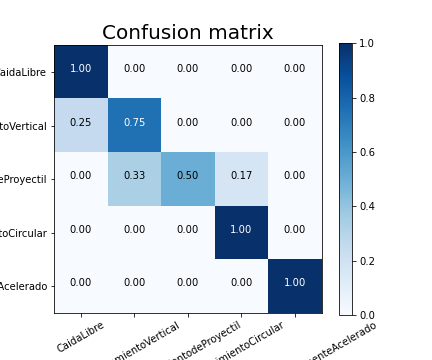
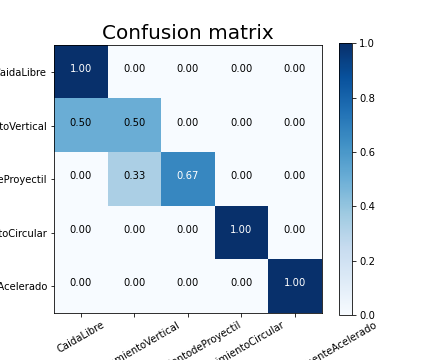
15-04-2023

Changed region(s): [[0.1204, 0.275, 0.6319, 0.5806]]

diff --git a/emv/librerias/lib_IdVar.py b/emv/librerias/lib_IdVar.py
@@ -36,15 +36,19 @@ def analizar_oracion(oracion, unidades_trab, descripción, unidades_si, variable
     print(f'oracion = {oracion}')
     # input('analizar_oracion')
     while (contpalabra <= len(oracion)-1): # Recorre todas las parabras de las lista de palabras de la oración
-        print(oracion[contpalabra])
+        print(oracion[contpalabra], end=': ')
         # input()
-        
         '''
-        print(get_indice_simbolo_trab(oracion[contpalabra].replace('.',''), descripción) != -1)
-        print(contpalabra < len(oracion)-1 and get_indice_simbolo_trab(f"{oracion[contpalabra]} {oracion[contpalabra+1].replace('.', '')}", descripción) != -1)
+        La palabra es una variable
+        La palabra actual y la siguiente es una variable
+        Es un número y le sigue una unidad, excepto si le precede las palabras tabla o figura
+        '''
+        
+        print(get_indice_simbolo_trab(oracion[contpalabra].replace('.',''), descripción) != -1, end=' ')
+        print(contpalabra < len(oracion)-1 and get_indice_simbolo_trab(f"{oracion[contpalabra]} {oracion[contpalabra+1].replace('.', '')}", descripción) != -1, end=' ')
         print(es_numero(oracion[contpalabra]) and oracion[contpalabra-1] not in ['figura', 'tabla'] and 
         contpalabra < len(oracion)-1 and get_indice_unidad_trab(oracion[contpalabra+1].replace('.', ''), unidades_trab) != -1)
-        '''
+        
         
         if (get_indice_simbolo_trab(oracion[contpalabra].replace('.',''), descripción) != -1 or 
             (contpalabra < len(oracion)-1 and get_indice_simbolo_trab(f"{oracion[contpalabra]} {oracion[contpalabra+1].replace('.', '')}", descripción) != -1) or
@@ -57,6 +61,13 @@ def analizar_oracion(oracion, unidades_trab, descripción, unidades_si, variable
             # print(contpalabra,len(oracion),oracion)
             print('lstDatos->', lstDatos)
             # input()
+            
+            # se válida si la unidad corresponde con la descripción
+            if lstDatos[0] != '' and lstDatos[2] != '' and es_numero(lstDatos[2]):
+                if lstDatos[3] not in unidades_trab[get_indice_simbolo_trab(f"{oracion[contpalabra]} {oracion[contpalabra+1].replace('.', '')}",descripción)].split(',') and es_numero(lstDatos[2]):
+                    lstDatos[3]=''
+                    lstDatos[2]=''
+            
             caso = es_var_independiente(lstDatos, unidades_trab, descripción)
             print(f'caso = {caso}')
 
@@ -94,23 +105,23 @@ def conteo(lst1, lst2):
     i = 0
     # nl1=len(lst1)
     while i < len(lst1): # Referencia
-
         j = 0
-
         while j < len(lst2):  # Recorre toda lst2
             lst2[j][2] = lst2[j][2].strip()
             if lst1[i] == lst2[j]:
-
                 lst1.pop(i)
                 lst2.pop(j)
                 c += 1
                 i -= 1
                 break
-
             j += 1
-
         i += 1
 
+    if not lst1:
+        print(f'*** Encontró todas las variables *quedó* {lst1} *agregó* {lst2}')
+    else:
+        print(f'*** NO ENCONTRÓ *quedó* {lst1} *agregó* {lst2}')
+    
     # if c==len(lst1):
         # print('Todos acertados')
     # else:
@@ -138,13 +149,10 @@ def convertir_str_list(cad, n):
     j = 0
     # print(lst)
     for i in range(len(lst) // n):
-
         lst2 = []
-
         while j < (i + 1) * n:
             lst2.append(lst[j])
             j += 1
-
         lst3.append(lst2)
 
     # print(l3)
@@ -209,7 +217,6 @@ def es_var_independiente(lista_datos,unidades_trab,descripción):
     return caso
 
 
-
 def file_to_dict(file_name):
     result_dict = {}
     with open(file_name) as f:
@@ -231,8 +238,8 @@ def filtros2(e, dict):  # sourcery skip: avoid-builtin-shadow
         for key, val in dict.items():  # Recorre el diccionario de variables
             e['enunciados'][i] = e['enunciados'][i].replace(key, val)
 
-        print ('Simplificación ortografica %s \n',i,') ', e['enunciados'][i])
-        print("\n")
+        #print ('Simplificación ortografica %s \n',i,') ', e['enunciados'][i])
+        #print("\n")
 
 
 def get_indice_simbolo_trab(cad_descripcionvartrab, descripción):
@@ -271,7 +278,7 @@ def get_indice_unidad_trab(unid, unidades_trab):
     '''
     for i in range(len(unidades_trab)):
         for u in unidades_trab[i].split(','):
-            if unid == u.lower():
+            if unid.lower() == u.lower():
                 return i
     return -1
 
@@ -324,8 +331,8 @@ def print_resultados_enunciados(contninguno, conttotal, contindep, contdep,
     print('\nAnálisis de enunciados:')
     print(f'Total de enunciados analizados=\t {conttotal}')
     print('Desacierto en ambos y porcentaje=\t %d \t %.2f ' % (contninguno, (contninguno / conttotal * 100)),'%')
-    print('Porcentaje Aciertos Var Indep =\t %d \t %.2f ' % (contindep, (contindep / conttotal * 100)),'%')
-    print('Porcentaje Aciertos Var Dep =\t %d \t %.2f ' % (contdep, (contdep / conttotal * 100)),'%')
+    print('Porcentaje Aciertos de todas las Var Indep por enunciado =\t %d \t %.2f ' % (contindep, (contindep / conttotal * 100)),'%')
+    print('Porcentaje Aciertos de todas las Var Dep por enunciado =\t %d \t %.2f ' % (contdep, (contdep / conttotal * 100)),'%')
     print('Total de aciertos en ambos y porcentaje=\t %d \t %.2f' % (contambos, (contambos / conttotal * 100)),'%')
 
     print(f'Enunciados con Falla en ambos=\t {lstNinguno}')
@@ -432,7 +439,7 @@ def detectar_vars(data, dfvar, dict):
     ...
     De la misma forma se hace con las diversas variables.
     '''
-    print(data['enunciados'])
+    #print(data['enunciados'])
     descripción = dfvar['nombrevar_simbolotrab'] # Nombre de la variable
     unidades_trab = dfvar['unidad_trab'] # Unidades de trabajo
     variable = dfvar['simbolo_si'] # Símbolo según el SI
@@ -467,13 +474,13 @@ def detectar_vars(data, dfvar, dict):
 
         # Enunciado convertido en lista cuyos elementos son oraciones.
         lst_enunciado = data['enunciados'][contenunciado].split('. ')
-        #print(contenunciado,lst_enunciado)
+        print(contenunciado,lst_enunciado)
 
         contoracion = 0
         lst_dep = []  # Lista para almacenar variables dependientes
         lst_indep = []  # Lista para almacenar variables in dependientes
         for contoracion in range(len(lst_enunciado)): # Recorre cada oración del enunciado
-            #print('Siguiente oración',contoracion)
+            print('Siguiente oración',contoracion)
             #input()
 
             # Oración convertida en lista de palabras.

diff --git a/emv/ClasifMod_IdVar V2.py b/emv/ClasifMod_IdVar V2.py
@@ -10,7 +10,7 @@ Created on Sun Dec 17 22:40:58 2017
 
 import pandas as pd
 
-#from librerias.lib_ClasifMod import clasificador
+from librerias.lib_ClasifMod import clasificador
 from librerias.lib_IdVar import detectar_vars, file_to_dict
 
 # This code was tested with matplotlib 2.1.0, numpy 1.16.5
@@ -19,10 +19,10 @@ from librerias.lib_IdVar import detectar_vars, file_to_dict
 # print("numpy version", np.__version__)
 # print("pandas version", pd.__version__)
 print("Leyendo datos de entrenamiento...")
-data = pd.read_csv('dataset/enunciadoscinematica2.csv',sep=';')  # ,encoding = "ISO-8859-1")
-'''
+data = pd.read_csv('dataset/enunciadoscinematica124.csv',sep=';')  # ,encoding = "ISO-8859-1")
+
 clasificador(data)
-'''
+input('sdfsdfsdfs')
 dfvar = pd.read_csv('dataset/listadevariables2.csv', sep='|')
 dict = file_to_dict("dataset/convert_text_to_descripcion_SI.txt")
 

diff --git a/emv/librerias/lib_ClasifMod.py b/emv/librerias/lib_ClasifMod.py
@@ -206,7 +206,7 @@ def clasificador(data):
     train_size = 0
 
     # Creación de los arrays de entrada y salida
-    train_size,test_size,enunciado_train,modelo_train,enunciado_test,modelo_test = dividir_datos(0.8,data)
+    train_size,test_size,enunciado_train,modelo_train,enunciado_test,modelo_test = dividir_datos(0.9,data)
 
     # Vectorizar los enunciados en un tensor de enteros 2D
     #print("Preparando el Tokenizer...")
